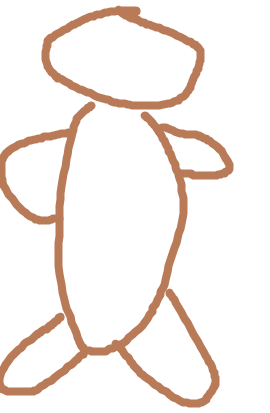
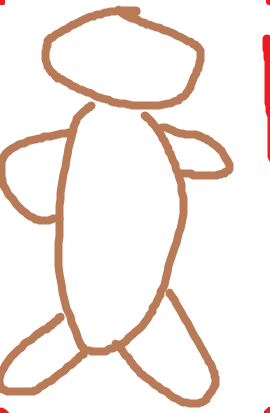
added drag and scroll

diff --git a/js/main.js b/js/main.js
@@ -1,7 +1,49 @@
 var c=document.getElementsByTagName("canvas")[0];
 ctx=c.getContext('2d');
+var scale = 1,x=200,y=300,arr=[200,300];
 var v = new Image();
 v.onload = function(){
-  ctx.drawImage(v,5,5,260,125);
+  redraw()
 };
 v.src = 'img/sloth.png';
+function redraw(){
+  ctx.clearRect(0,0,400,600)
+  ctx.drawImage(v,arr[0]+mouse.dx,arr[1]+mouse.dy,400*scale,600*scale);
+}
+function log(value,level){
+  console.log(value)
+}
+c.onmousewheel = function(e){
+  temp = Math.pow(1.1,e.deltaY/100);
+  arr[0] = (1-temp)*e.x+ arr[0]*temp;
+  arr[1] = (1-temp)*e.y+ arr[1]*temp;
+  scale *= temp;
+  console.log(scale,arr);
+  redraw();
+}
+var mouse = {};
+mouse.down = false;
+mouse.x = 0;
+mouse.y = 0;
+mouse.dx = 0;
+mouse.dy = 0;
+c.onmousedown = function(evt){
+    mouse.down = true;
+    mouse.x = evt.x;
+    mouse.y = evt.y;
+};
+c.onmouseup = function(evt){
+    mouse.down = false;
+    arr[0]+=(mouse.dx)
+    arr[1]+=(mouse.dy);
+    mouse.dx = 0;
+    mouse.dy = 0;
+    redraw();
+};
+c.onmousemove = function(evt){
+    if(mouse.down){
+      mouse.dx = evt.x - mouse.x;
+      mouse.dy = evt.y - mouse.y;
+      redraw();
+    }
+};

diff --git a/index.html b/index.html
@@ -3,7 +3,7 @@
     <title>Slorgans</title>
   </head>
   <body>
-    <canvas width="400" height="400">Sorry the game does not support your browser</canvas>
+    <canvas width="400" height="600">Sorry the game does not support your browser</canvas>
     <script src="js/main.js"></script>
   </body>
 </html>
